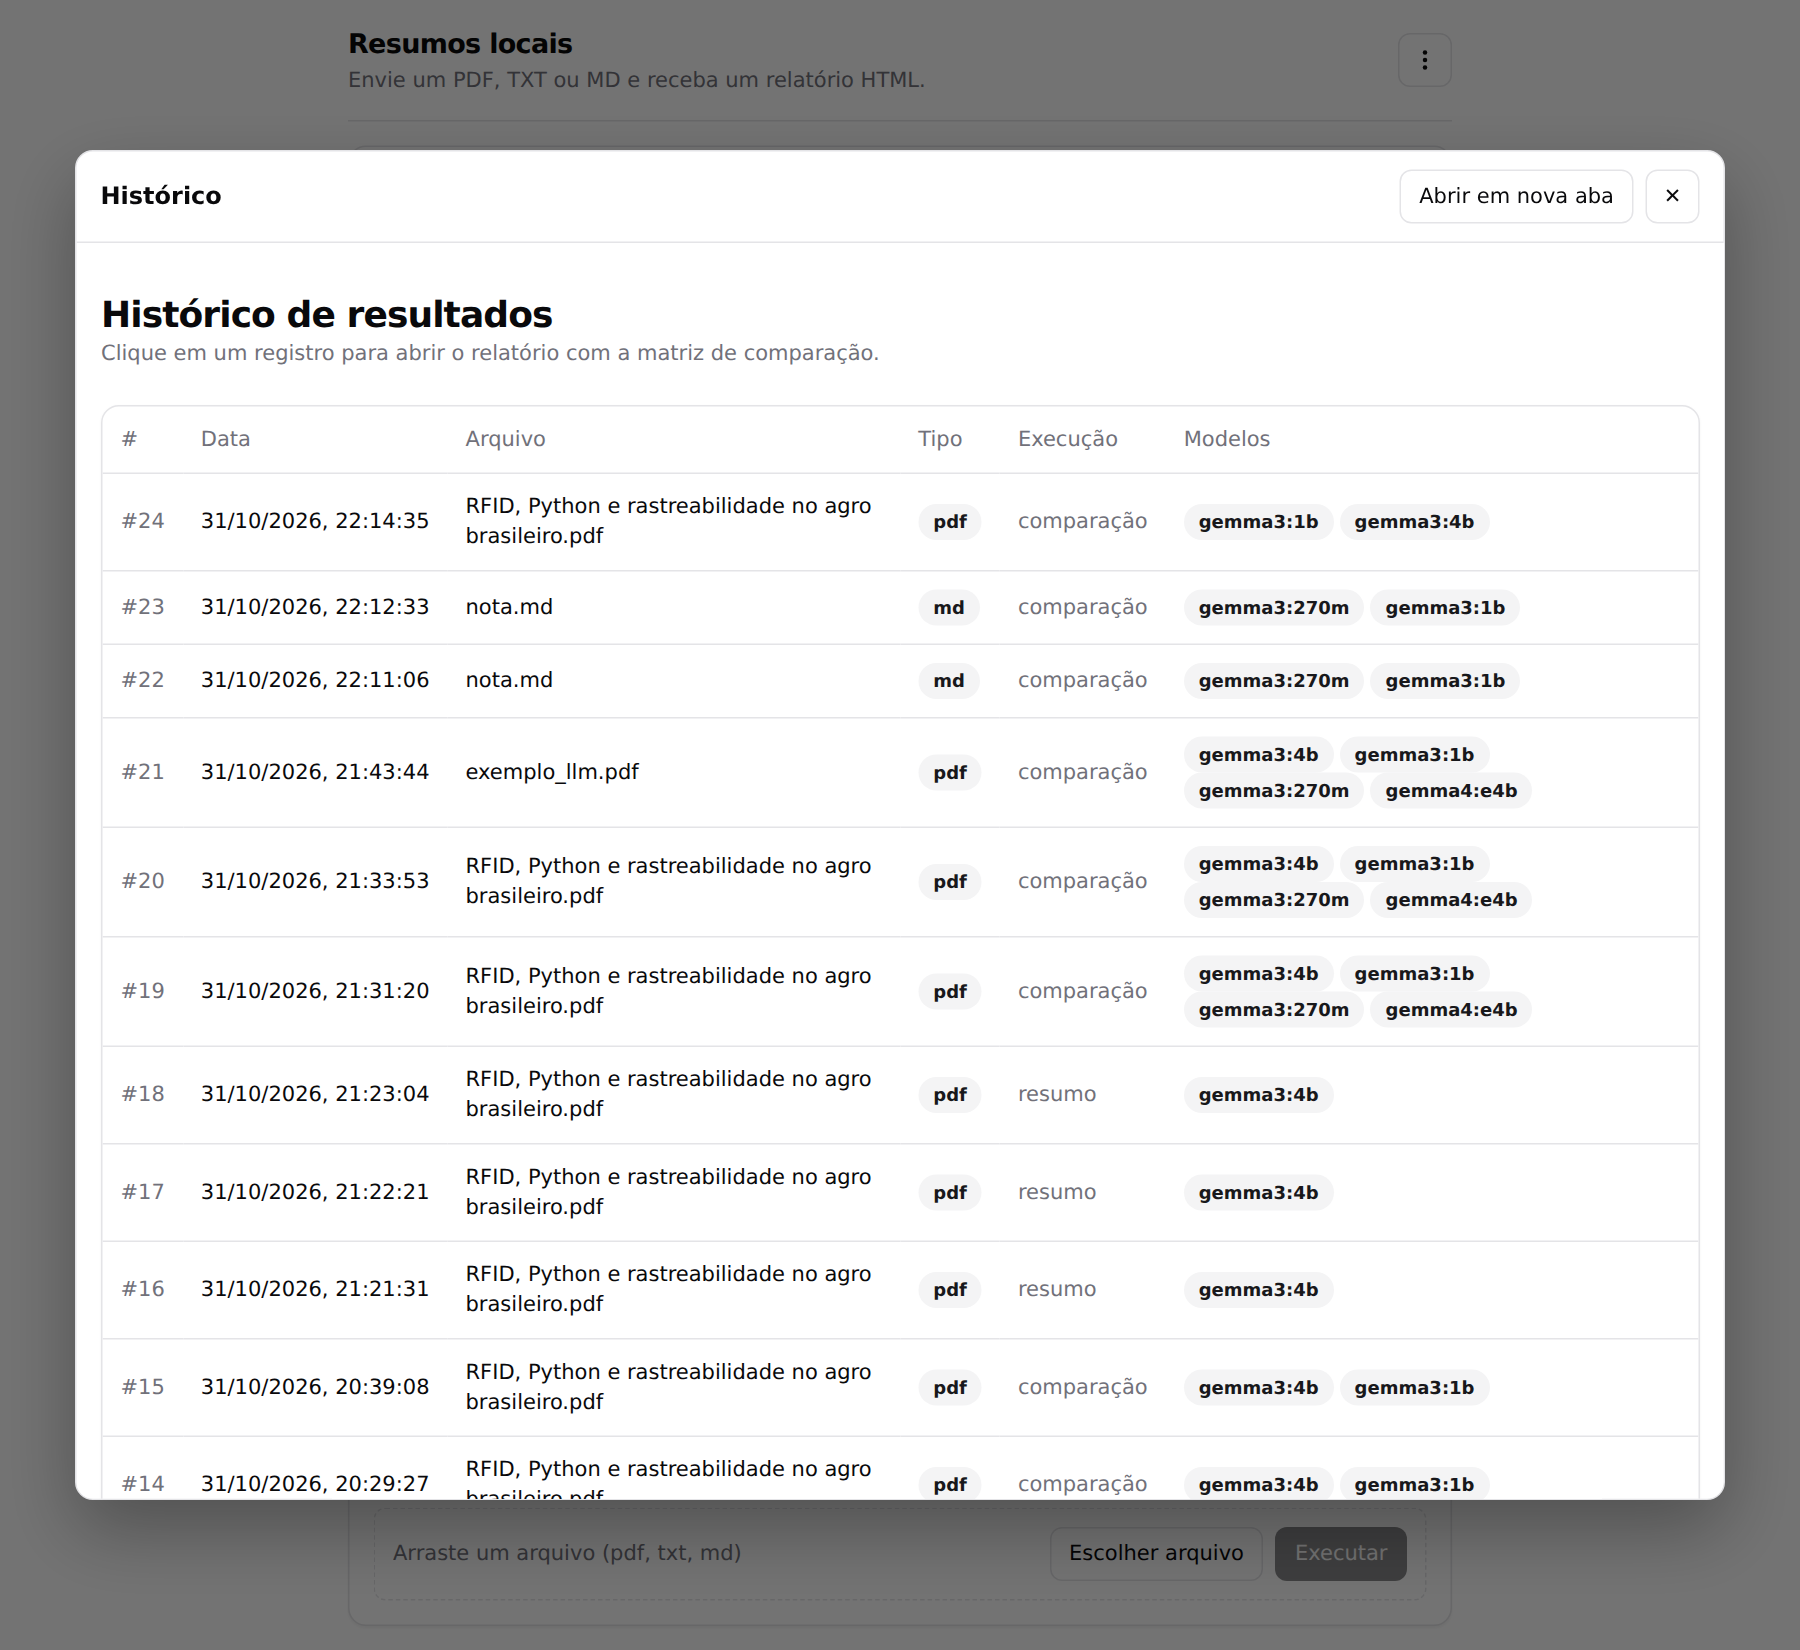
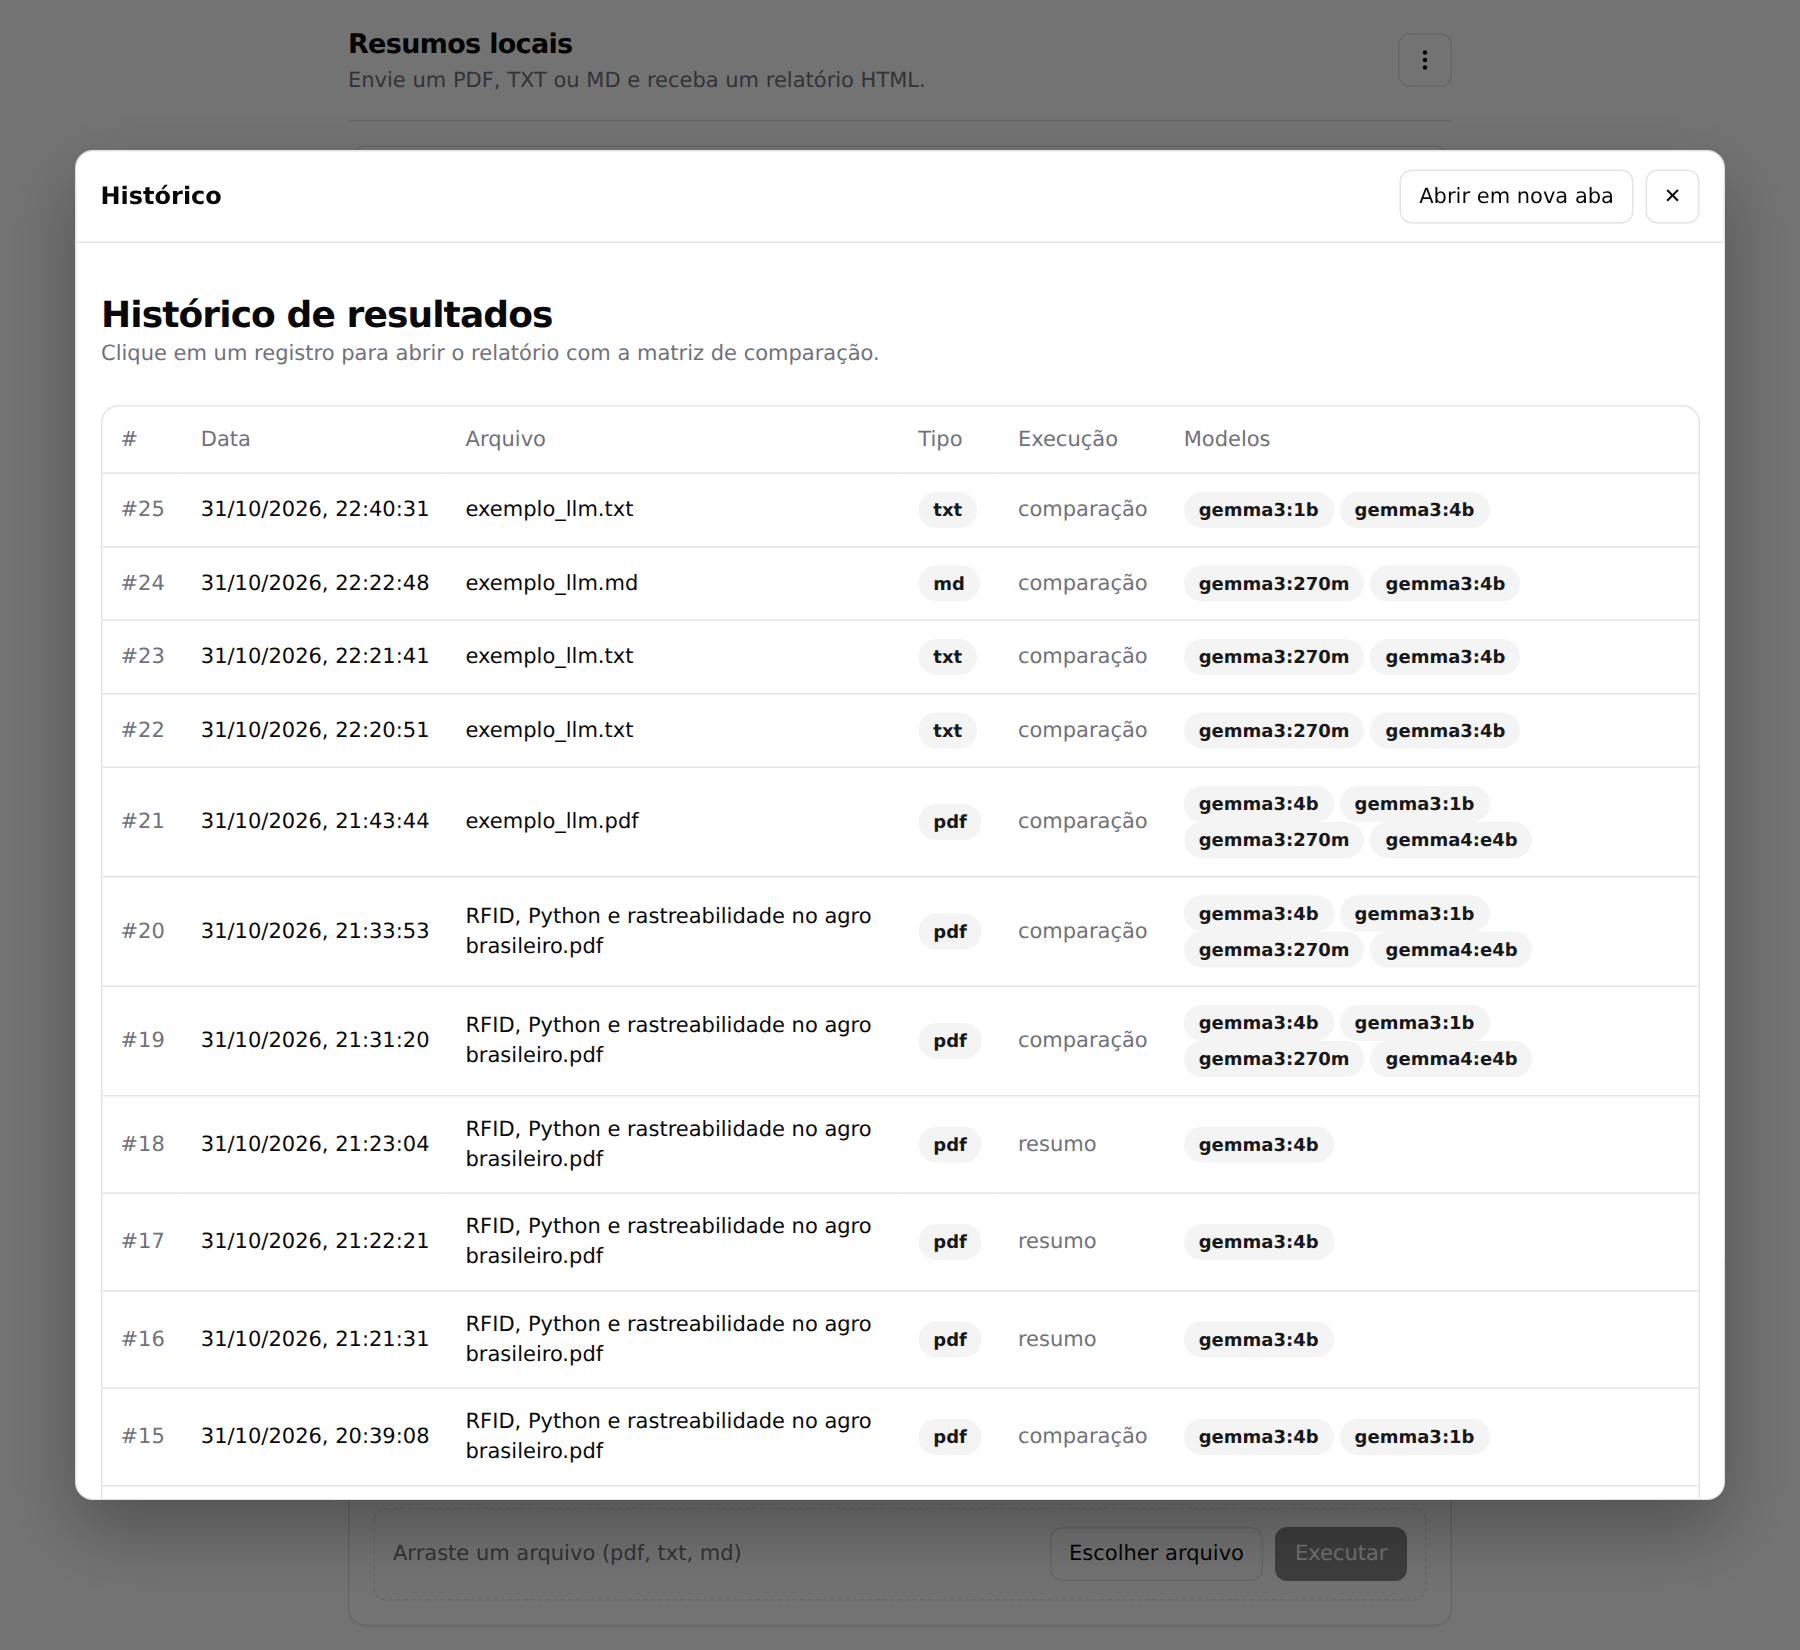
Capturas refeitas com samples/exemplo_llm.txt e init no serviço do chat
Documentação
- Capturas de análise em andamento, concluída, relatório, histórico e
  modelos refeitas com o arquivo samples/exemplo_llm.txt e os modelos
  gemma3:1b e gemma3:4b, partindo da memória vazia (pills de carga reais)
- README: nota na seção "Telas" sobre o arquivo e os modelos das capturas
- Guia do Ollama: números do parágrafo de desempenho trocados pelos das
  novas capturas (1b: ~17 s; 4b: ~57 s, com 25 s só de leitura)

Compose
- chat: init: true. O PID 1 passa a repassar o sinal de parada ao Python,
  e o docker compose stop leva ~0,7 s em vez de ~10 s (saída 143 em vez de 137)

diff --git a/references/ollama-gemma4-pdf.md b/references/ollama-gemma4-pdf.md
@@ -180,7 +180,7 @@ O limite de **dois modelos** vem do `docker-compose.yml` (o mesmo `OLLAMA_MAX_LO
 
 ![Comparação em andamento](../assets/comparisson-first-model.png)
 
-Cada modelo roda **um de cada vez** e tem um cartão com o resumo sendo escrito ao vivo. O rodapé do cartão mostra a **etapa atual** (*Carregando modelo*, *Executando leitura*, *Gerando resultados*), um cronômetro e uma barra dividida em três trechos, um para cada etapa. Os **pills de tempo** (carga, leitura, geração e tokens por segundo) aparecem conforme cada etapa termina, e o selo do cartão vira **concluído** (verde) no fim. Na captura acima, o primeiro modelo já concluiu e o segundo está nas etapas iniciais.
+Cada modelo roda **um de cada vez** e tem um cartão com o resumo sendo escrito ao vivo. O rodapé do cartão mostra a **etapa atual** (*Carregando modelo*, *Executando leitura*, *Gerando resultados*), um cronômetro e uma barra dividida em três trechos, um para cada etapa. Os **pills de tempo** (carga, leitura, geração e tokens por segundo) aparecem conforme cada etapa termina, e o selo do cartão vira **concluído** (verde) no fim. Na captura acima, o primeiro modelo já concluiu e o segundo está gerando o resultado (com a carga e a leitura já registradas nos pills). As capturas desta seção usam o arquivo `samples/exemplo_llm.txt`, com os modelos `gemma3:1b` e `gemma3:4b`.
 
 
 ![Comparação concluída](../assets/comparisson-second-model.png)
@@ -242,7 +242,7 @@ for row in sqlite3.connect('/outputs/resumos.db').execute(
 
 ### Desempenho na CPU
 
-Sem GPU, a **carga** e a **leitura** do texto costumam pesar mais que a geração, principalmente nos modelos maiores. Nas capturas acima, o `gemma3:1b` levou menos de 20 segundos no total, e o `gemma4:e4b` passou de 100 segundos. O primeiro uso de um modelo paga a carga; depois ele fica 10 minutos na memória.
+Sem GPU, a **carga** e a **leitura** do texto costumam pesar mais que a geração, principalmente nos modelos maiores. Nas capturas acima (mesmo arquivo, os dois modelos partindo da memória vazia), o `gemma3:1b` levou cerca de 17 segundos no total (carga 1,6 s, leitura 5,6 s, geração 10,2 s), e o `gemma3:4b` cerca de 57 segundos (carga 10,4 s, leitura 25,1 s, geração 21,7 s): a leitura sozinha do `4b` já passa de um terço do tempo. O primeiro uso de um modelo paga a carga; depois ele fica 10 minutos na memória.
 
 **Por que a leitura é mais lenta no modelo maior, se o texto já foi extraído?** Porque "ler" não é copiar o texto: o modelo passa cada token por todas as suas camadas para montar a sua memória de atenção. É cálculo, e cresce com o tamanho do modelo. Com o mesmo texto (~575 tokens) e o modelo já carregado, o `gemma3:1b` leu a 71 tok/s e o `gemma4:e4b` a 15 tok/s. O resultado dessa leitura é próprio de cada modelo, então não é reaproveitado pelo seguinte. Só repetir exatamente o mesmo prompt no mesmo modelo, ainda carregado, torna a leitura quase instantânea (menos de meio segundo).
 

diff --git a/README.md b/README.md
@@ -99,6 +99,8 @@ O **Histórico** lista todos os resultados, do mais recente para o mais antigo: 
 
 ## Telas
 
+As capturas foram feitas com o arquivo `samples/exemplo_llm.txt` (um texto curto sobre LLMs, agentes e skills) e os modelos `gemma3:1b` e `gemma3:4b`, logo depois de iniciar os serviços, quando nenhum modelo estava carregado. Por isso os pills de carga mostram valores reais. Os tempos dependem da sua máquina (aqui, um notebook sem GPU).
+
 **Tela inicial:** escolha até dois modelos (listados do mais leve ao mais pesado), anexe o arquivo e clique em Executar.
 
 ![Tela inicial do chat](assets/home.png)
